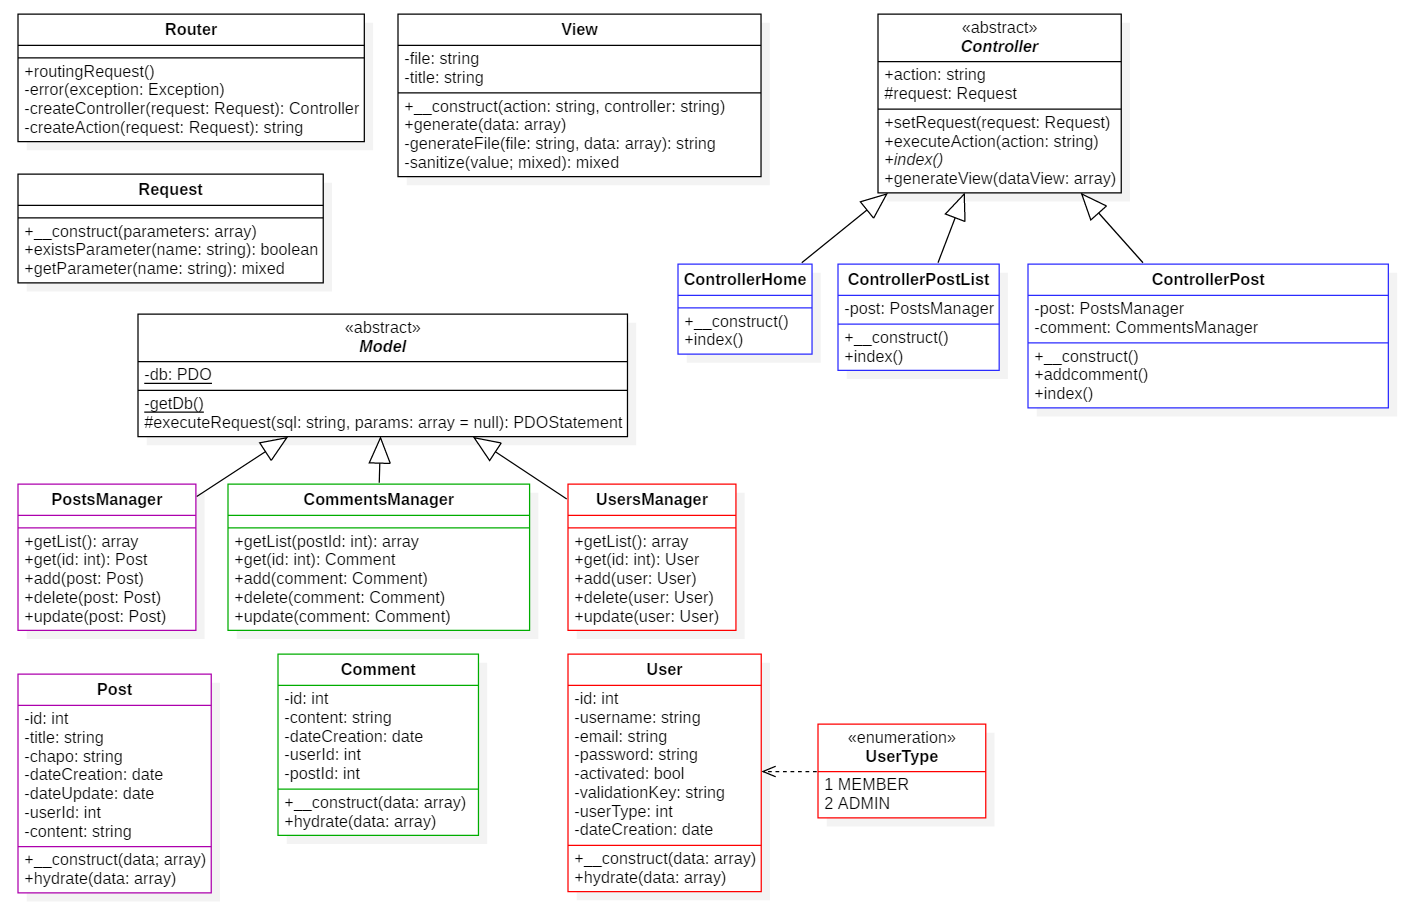
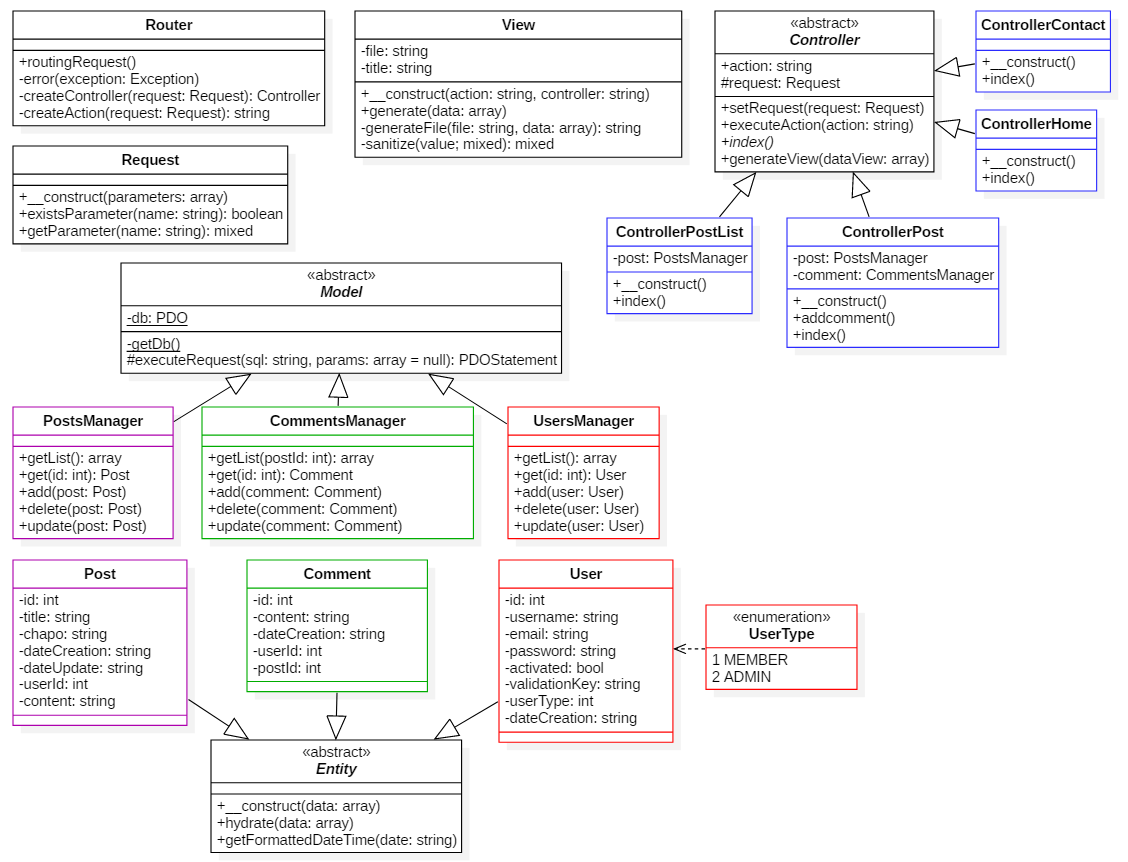
Better dates display. Entity class for the common methods shared by the different model entities

Changed region(s): [[0.0, 0.0, 0.9929, 0.9954], [0.9619, 0.3016, 0.9929, 0.3318]]

diff --git a/View/Contact/index.php b/View/Contact/index.php
@@ -23,39 +23,39 @@
       <!-- Contact Form - Enter your email address on line 19 of the mail/contact_me.php file to make this form work. -->
       <!-- WARNING: Some web hosts do not allow emails to be sent through forms to common mail hosts like Gmail or Yahoo. It's recommended that you use a private domain email address! -->
       <!-- To use the contact form, your site must be on a live web host with PHP! The form will not work locally! -->
-      <form name="sentMessage" id="contactForm" novalidate>
+      <form method="post" action="contact/sendMessage" name="sentMessage" id="contactForm" novalidate>
         <div class="control-group">
           <div class="form-group floating-label-form-group controls">
             <label>Nom</label>
-            <input type="text" class="form-control" placeholder="Nom" id="name" required data-validation-required-message="Please enter your name.">
+            <input name="name" type="text" class="form-control" placeholder="Nom" id="name" required data-validation-required-message="Please enter your name.">
             <p class="help-block text-danger"></p>
           </div>
         </div>
         <div class="control-group">
           <div class="form-group floating-label-form-group controls">
             <label>Email</label>
-            <input type="email" class="form-control" placeholder="Email" id="email" required data-validation-required-message="Please enter your email address.">
+            <input name="email" type="email" class="form-control" placeholder="Email" id="email" required data-validation-required-message="Please enter your email address.">
             <p class="help-block text-danger"></p>
           </div>
         </div>
         <div class="control-group">
           <div class="form-group col-xs-12 floating-label-form-group controls">
             <label>Numéro de téléphone</label>
-            <input type="tel" class="form-control" placeholder="Numéro de téléphone" id="phone" required data-validation-required-message="Please enter your phone number.">
+            <input name="phone" type="tel" class="form-control" placeholder="Numéro de téléphone" id="phone" required data-validation-required-message="Please enter your phone number.">
             <p class="help-block text-danger"></p>
           </div>
         </div>
         <div class="control-group">
           <div class="form-group floating-label-form-group controls">
             <label>Message</label>
-            <textarea rows="5" class="form-control" placeholder="Message" id="message" required data-validation-required-message="Please enter a message."></textarea>
+            <textarea name="message" rows="5" class="form-control" placeholder="Message" id="message" required data-validation-required-message="Please enter a message."></textarea>
             <p class="help-block text-danger"></p>
           </div>
         </div>
         <br>
         <div id="success"></div>
         <div class="form-group">
-          <button type="submit" class="btn btn-primary" id="sendMessageButton">Envoyer</button>
+          <button type="submit" name="submitted" class="btn btn-primary" value="submitted" id="sendMessageButton">Envoyer</button>
         </div>
       </form>
     </div>

diff --git a/Controller/ControllerContact.php b/Controller/ControllerContact.php
@@ -1,6 +1,7 @@
 <?php
 
 require_once 'Framework/Controller.php';
+require_once 'Framework/Configuration.php';
 
 class ControllerContact extends Controller
 {
@@ -13,5 +14,39 @@ class ControllerContact extends Controller
     public function index()
     {
         $this->generateView(array());
+    }
+    
+    public function sendMessage()
+    {
+        $name = strip_tags(htmlspecialchars($this->request->getParameter("name")));
+        $email = strip_tags(htmlspecialchars($this->request->getParameter("email")));
+        $phone = strip_tags(htmlspecialchars($this->request->getParameter("phone")));
+        $message = strip_tags(htmlspecialchars($this->request->getParameter("message")));
+        $submitted = strip_tags(htmlspecialchars($this->request->getParameter("submitted")));
+        
+        if(isset($submitted))
+        {
+            // Check for empty fields
+            if(empty($name)      ||
+                empty($email)     ||
+                empty($phone)     ||
+                empty($message)   ||
+                !filter_var($email,FILTER_VALIDATE_EMAIL))
+            {
+                // Exécution de l'action par défaut pour réafficher le formulaire de contact
+                $this->executeAction("index");
+            }
+            
+            // Create the email and send the message
+            $to = Configuration::get("email");
+            $email_subject = "Blog Formulaire de contact:  $name";
+            $email_body = "Vous avez reçu un nouveau message à partir du formulaire de contact du blog.\n\n"."Details :\n\nNom: $name\nEmail: $email\nTelephone: $phone\nMessage:\n$message";
+            $headers = "From:" . Configuration::get("noreply") . "\n";
+            $headers .= "Reply-To: $email";
+            mail($to,$email_subject,$email_body,$headers);
+        }
+        
+        // Exécution de l'action par défaut pour réafficher le formulaire de contact
+        $this->executeAction("index");
     }
 }

diff --git a/Model/Entity/Post.php b/Model/Entity/Post.php
@@ -1,6 +1,7 @@
 <?php
+require_once 'Framework/Entity.php';
 //TODO Vérification du type/formatage des données dans les setters.
-class Post 
+class Post extends Entity
 {
     private $id;
     private $title;
@@ -10,35 +11,11 @@ class Post
     private $userId;
     private $content;
 
-    public function __construct(array $data)
-    {
-    	$this->hydrate($data);
-    }
-
-    public function hydrate(array $data)
-    {
-    	// Hydratation dynamique (Appel d'une méthode dont le nom n'est pas connu à l'avance).
-		foreach ($data as $key => $value)
-		{
-		    // Transformation de underscore_case vers camelCase
-		    $key = lcfirst(str_replace('_', '', ucwords($key, '_')));
-			// On récupère le nom du setter correspondant à l'attribut.
-			$method = 'set'.ucfirst($key);
-
-			// Si le setter correspondant existe.
-			if (method_exists($this, $method))
-			{
-				// On appelle le setter.
-				$this->$method($value);
-			}
-		}
-    }
-
     public function getId() { return $this->id; }
     public function getTitle() { return $this->title; }
     public function getChapo() { return $this->chapo; }
-    public function getDateCreation() { return $this->dateCreation; }
-    public function getDateUpdate() { return $this->dateUpdate; }
+    public function getDateCreation() { return $this->getFormattedDateTime($this->dateCreation); }
+    public function getDateUpdate() { return $this->getFormattedDateTime($this->dateUpdate); }
 	public function getUserId() { return $this->userId; }
 	public function getContent() { return $this->content; }
 

diff --git a/Model/Entity/User.php b/Model/Entity/User.php
@@ -1,6 +1,7 @@
 <?php
+require_once 'Framework/Entity.php';
 //TODO Vérification du type/formatage des données dans les setters.
-class User 
+class User extends Entity
 {
     private $id;
     private $username;
@@ -11,30 +12,6 @@ class User
     private $userType;
     private $dateCreation;
 
-    public function __construct(array $data)
-    {
-    	$this->hydrate($data);
-    }
-
-    public function hydrate(array $data)
-    {
-    	// Hydratation dynamique (Appel d'une méthode dont le nom n'est pas connu à l'avance).
-		foreach ($data as $key => $value)
-		{
-		    // Transformation de underscore_case vers camelCase
-		    $key = lcfirst(str_replace('_', '', ucwords($key, '_')));
-			// On récupère le nom du setter correspondant à l'attribut.
-			$method = 'set'.ucfirst($key);
-
-			// Si le setter correspondant existe.
-			if (method_exists($this, $method))
-			{
-				// On appelle le setter.
-				$this->$method($value);
-			}
-		}
-    }
-
     public function getId() { return $this->id; }
     public function getUsername() { return $this->username; }
     public function getEmail() { return $this->email; }
@@ -42,7 +19,7 @@ class User
     public function getActivated() { return $this->activated; }
 	public function getValidationKey() { return $this->validationKey; }
 	public function getUserType() { return $this->userType; }
-	public function getDateCreation() { return $this->dateCreation; }
+	public function getDateCreation() { return $this->getFormattedDateTime($this->dateCreation); }
 
     public function setId($id) 
     {

diff --git a/Model/Entity/Comment.php b/Model/Entity/Comment.php
@@ -1,6 +1,7 @@
 <?php
+require_once 'Framework/Entity.php';
 //TODO Vérification du type/formatage des données dans les setters.
-class Comment 
+class Comment extends Entity
 {
     private $id;
     private $content;
@@ -8,33 +9,9 @@ class Comment
     private $userId;
     private $postId;
 
-    public function __construct(array $data)
-    {
-    	$this->hydrate($data);
-    }
-
-    public function hydrate(array $data)
-    {
-    	// Hydratation dynamique (Appel d'une méthode dont le nom n'est pas connu à l'avance).
-		foreach ($data as $key => $value)
-		{
-		    // Transformation de underscore_case vers camelCase
-		    $key = lcfirst(str_replace('_', '', ucwords($key, '_')));
-			// On récupère le nom du setter correspondant à l'attribut.
-			$method = 'set'.ucfirst($key);
-
-			// Si le setter correspondant existe.
-			if (method_exists($this, $method))
-			{
-				// On appelle le setter.
-				$this->$method($value);
-			}
-		}
-    }
-
     public function getId() { return $this->id; }
     public function getContent() { return $this->content; }
-    public function getDateCreation() { return $this->dateCreation; }
+    public function getDateCreation() { return $this->getFormattedDateTime($this->dateCreation); }
     public function getUserId() { return $this->userId; }
     public function getPostId() { return $this->postId; }
 

diff --git a/Framework/Entity.php b/Framework/Entity.php
@@ -1,0 +1,38 @@
+<?php
+
+abstract class Entity 
+{
+    public function __construct(array $data)
+    {
+    	$this->hydrate($data);
+    }
+
+    public function hydrate(array $data)
+    {
+    	// Hydratation dynamique (Appel d'une méthode dont le nom n'est pas connu à l'avance).
+		foreach ($data as $key => $value)
+		{
+		    // Transformation de underscore_case vers camelCase
+		    $key = lcfirst(str_replace('_', '', ucwords($key, '_')));
+			// On récupère le nom du setter correspondant à l'attribut.
+			$method = 'set'.ucfirst($key);
+
+			// Si le setter correspondant existe.
+			if (method_exists($this, $method))
+			{
+				// On appelle le setter.
+				$this->$method($value);
+			}
+		}
+    }
+
+    public function getFormattedDateTime($date)
+    {
+        date_default_timezone_set('Europe/Paris');
+        setlocale(LC_TIME, 'fr_FR.utf8','fra');
+        $date = new DateTime($date);
+        $date = strftime("%d %B %Y à %Hh%M", $date->getTimeStamp());
+        
+        return $date;
+    }
+}

diff --git a/View/error.php b/View/error.php
@@ -1,1 +1,25 @@
-<p><?= $this->sanitize($msgError) ?></p>
+<?php $this->title = "Mon Blog - Erreur" ?>
+
+<!-- Page Header -->
+<header class="masthead" style="background-image: url('Content/startbootstrap-clean-blog-gh-pages/img/home-bg.jpg')">
+  <div class="overlay"></div>
+  <div class="container">
+    <div class="row">
+      <div class="col-lg-8 col-md-10 mx-auto">
+        <div class="site-heading">
+          <h1>Une erreur est survenue</h1>
+          <span class="subheading">En cas d'erreur récurrente, veuillez envoyer le message ci-dessous à un administrateur</span>
+        </div>
+      </div>
+    </div>
+  </div>
+</header>
+
+<!--  Content  -->
+<div class="container">
+  <div class="row">
+    <div class="col-lg-8 col-md-10 mx-auto">
+      <p><?= $this->sanitize($msgError) ?></p>
+    </div>
+  </div>
+</div>

diff --git a/View/template.php b/View/template.php
@@ -98,10 +98,10 @@
     </footer>
 
     <!-- Bootstrap core JavaScript -->
-    <script src="P5-BlogMVC/Content/startbootstrap-clean-blog-gh-pages/vendor/jquery/jquery.min.js"></script>
-    <script src="P5-BlogMVC/Content/startbootstrap-clean-blog-gh-pages/vendor/bootstrap/js/bootstrap.bundle.min.js"></script>
+    <script src="Content/startbootstrap-clean-blog-gh-pages/vendor/jquery/jquery.min.js"></script>
+    <script src="Content/startbootstrap-clean-blog-gh-pages/vendor/bootstrap/js/bootstrap.bundle.min.js"></script>
 
     <!-- Custom scripts for this template -->
-    <script src="P5-BlogMVC/Content/startbootstrap-clean-blog-gh-pages/js/clean-blog.min.js"></script>
+    <script src="Content/startbootstrap-clean-blog-gh-pages/js/clean-blog.min.js"></script>
   </body>
 </html>

diff --git a/View/Post/index.php b/View/Post/index.php
@@ -36,7 +36,7 @@
       <p>Réponses à "<?= $this->sanitize($post->getTitle()) ?>" :</p>
 <!-- Affichage des commenaires -->
 <?php foreach ($comments as $comment): ?>
-    <p><?= $this->sanitize($comment->getUserId()) ?> a dit :</p>
+    <p><?= $this->sanitize($comment->getUserId()) ?> a commenté le <?= $this->sanitize($comment->getDateCreation()) ?> :</p>
     <p><?= $this->sanitize($comment->getContent()) ?></p>
 <?php endforeach; ?>
     </div>

diff --git a/Framework/View.php b/Framework/View.php
@@ -43,7 +43,7 @@ class View
     {
         if (file_exists($file)) 
         {
-            // Rend les éléments du tableau $donnees accessibles dans la vue
+            // Rend les éléments du tableau $data accessibles dans la vue
             extract($data);
             // Démarrage de la temporisation de sortie
             ob_start();
